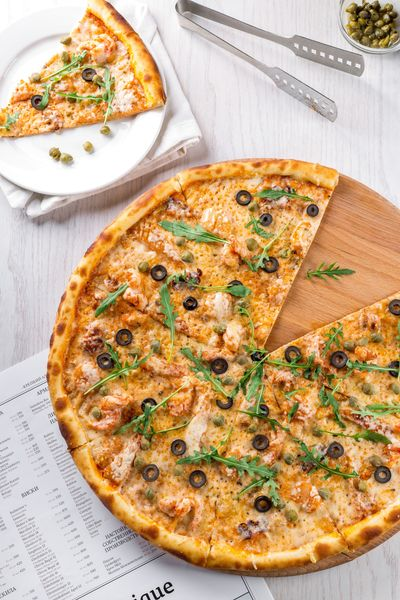
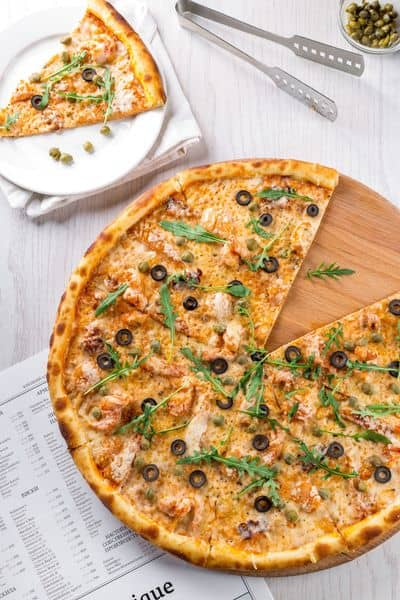
add compressed images

diff --git a/assets/css/style.css b/assets/css/style.css
@@ -74,7 +74,7 @@ header {
     position: relative;
     overflow: hidden;
     width: 100%;
-    height: 600px;
+    height: 750px;
 }
 
 #pizza-oven {
@@ -268,6 +268,10 @@ footer {
         width: 75%;
     }
 
+    #pizza-main {
+        height: 550px;
+    }
+
     #naples-rome, #rome-pizza, #naples-pizza {
         text-align: center;
         padding: 30px;
@@ -308,6 +312,10 @@ footer {
 
     .form_button {
         width: auto;
+    }
+
+    #photos {
+        column-count: 3;
     }
 }
 
@@ -360,6 +368,10 @@ footer {
         margin: 5px 5px;
         display: inline;
         list-style-type: none;
+    }
+
+    #photos {
+        column-count: 2;
     }
 }
 
